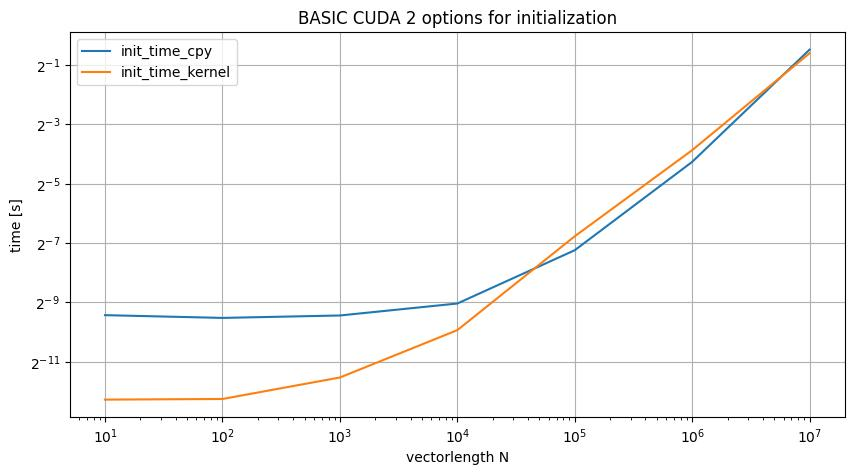
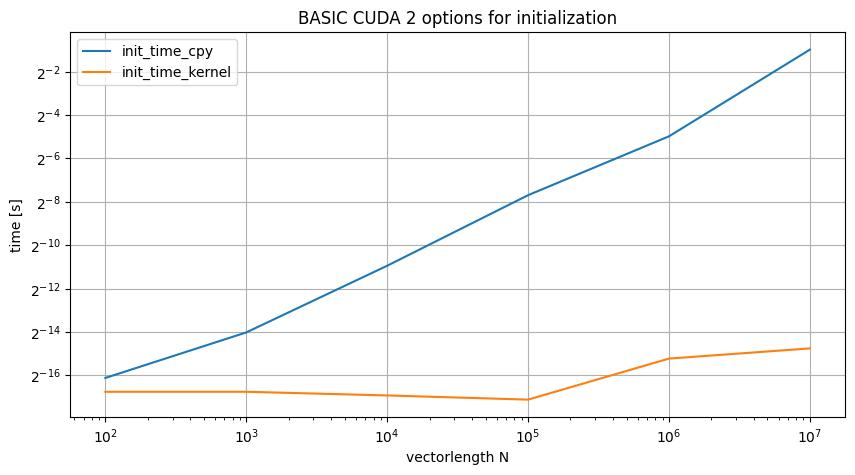
b fixed

diff --git a/a2/basic_cuda_b.cpp b/a2/basic_cuda_b.cpp
@@ -5,25 +5,22 @@
 #include <vector>
 #include <numeric>
 
-// https://stackoverflow.com/questions/55683408/cuda-data-initialization
+__device__ double *d_y;                    //*d_y now is a uninitialized variable on GPU memory
+__global__ void initMemory(int vectorsize) 
+{
+    cudaMalloc(&d_y, sizeof(double) * vectorsize); // allocate memory
+    int id = blockIdx.x * blockDim.x + threadIdx.x;
 
- __device__ double *d_y;
- void initMemory(int vectorsize){
-    double *d_yy;
-    cudaMalloc(&d_yy,sizeof(double)*vectorsize);
-    double* d_yyy = new double[vectorsize];
-    for (int i=0; i<vectorsize; i++){
-        d_yyy[i]=2.0;
+    for (int i = id; i < vectorsize; i += blockDim.x * gridDim.x) // initiate
+    {
+        d_y[i] = i;
     }
-    cudaMemcpy(d_yy,d_yyy,sizeof(double)*vectorsize,cudaMemcpyHostToDevice);
-    cudaMemcpyToSymbol(d_y,&d_yy,sizeof(d_yy),0,cudaMemcpyHostToDevice);
- }
+}
 
-
-int main(int argc, char **argv)
+    main(int argc, char **argv)
 {
     // initicpyize vector lengths
-    std::vector<int> n = {10, 100, 1000, 10000, 100000, 1000000, 10000000};
+    std::vector<int> n = {100, 1000, 10000, 100000, 1000000, 10000000};
     // save data struc
     std::vector<std::vector<float>> times_N;
     Timer timer;
@@ -31,7 +28,7 @@ int main(int argc, char **argv)
     for (int j = 0; j < n.size(); j++)
     {
         int N = n[j];
-        
+
         // save data struc
         std::vector<float> log_cpy;
         std::vector<float> log_fr;
@@ -42,9 +39,10 @@ int main(int argc, char **argv)
             double *x, *d_x;
             cudaDeviceSynchronize();
             timer.reset();
-            x = (double *) malloc(N*sizeof(double));
+            x = (double *)malloc(N * sizeof(double));
             cudaMalloc(&d_x, N * sizeof(double));
-            for (int k = 0; k < N; k++){
+            for (int k = 0; k < N; k++)
+            {
                 x[k] = 1.0;
             }
             cudaMemcpy(d_x, x, N * sizeof(double), cudaMemcpyHostToDevice);
@@ -55,14 +53,14 @@ int main(int argc, char **argv)
             // allociate device memory and initiate in kernel
             cudaDeviceSynchronize();
             timer.reset();
-            initMemory(N);
+            initMemory<<<256,256>>>(N);
             cudaDeviceSynchronize();
             float elapsed_time_fr = timer.get();
             log_fr.push_back(elapsed_time_fr);
 
             free(x);
             cudaFree(d_x);
-            double* del;
+            double *del;
             cudaMemcpyFromSymbol(&del, d_y, sizeof(del), 0, cudaMemcpyDeviceToHost);
             cudaFree(del);
         }

diff --git a/a2/plots.py b/a2/plots.py
@@ -8,7 +8,7 @@ filepath1 = "data/basic_cuda_a.txt"
 data_a = np.genfromtxt(filepath1, dtype=float, delimiter=' ')
 filepath1a = "data/basic_cuda_a2.txt"
 data_a2 = np.genfromtxt(filepath1a, dtype=float, delimiter=' ')
-filepath2 = "data/basic_cuda_b.txt"
+filepath2 = "data/basic_cuda_b2.txt"
 data_b = np.genfromtxt(filepath2, dtype=float, delimiter=' ')
 filepath3 = "data/basic_cuda_c.txt"
 data_c= np.genfromtxt(filepath3, dtype=float, delimiter=' ')
